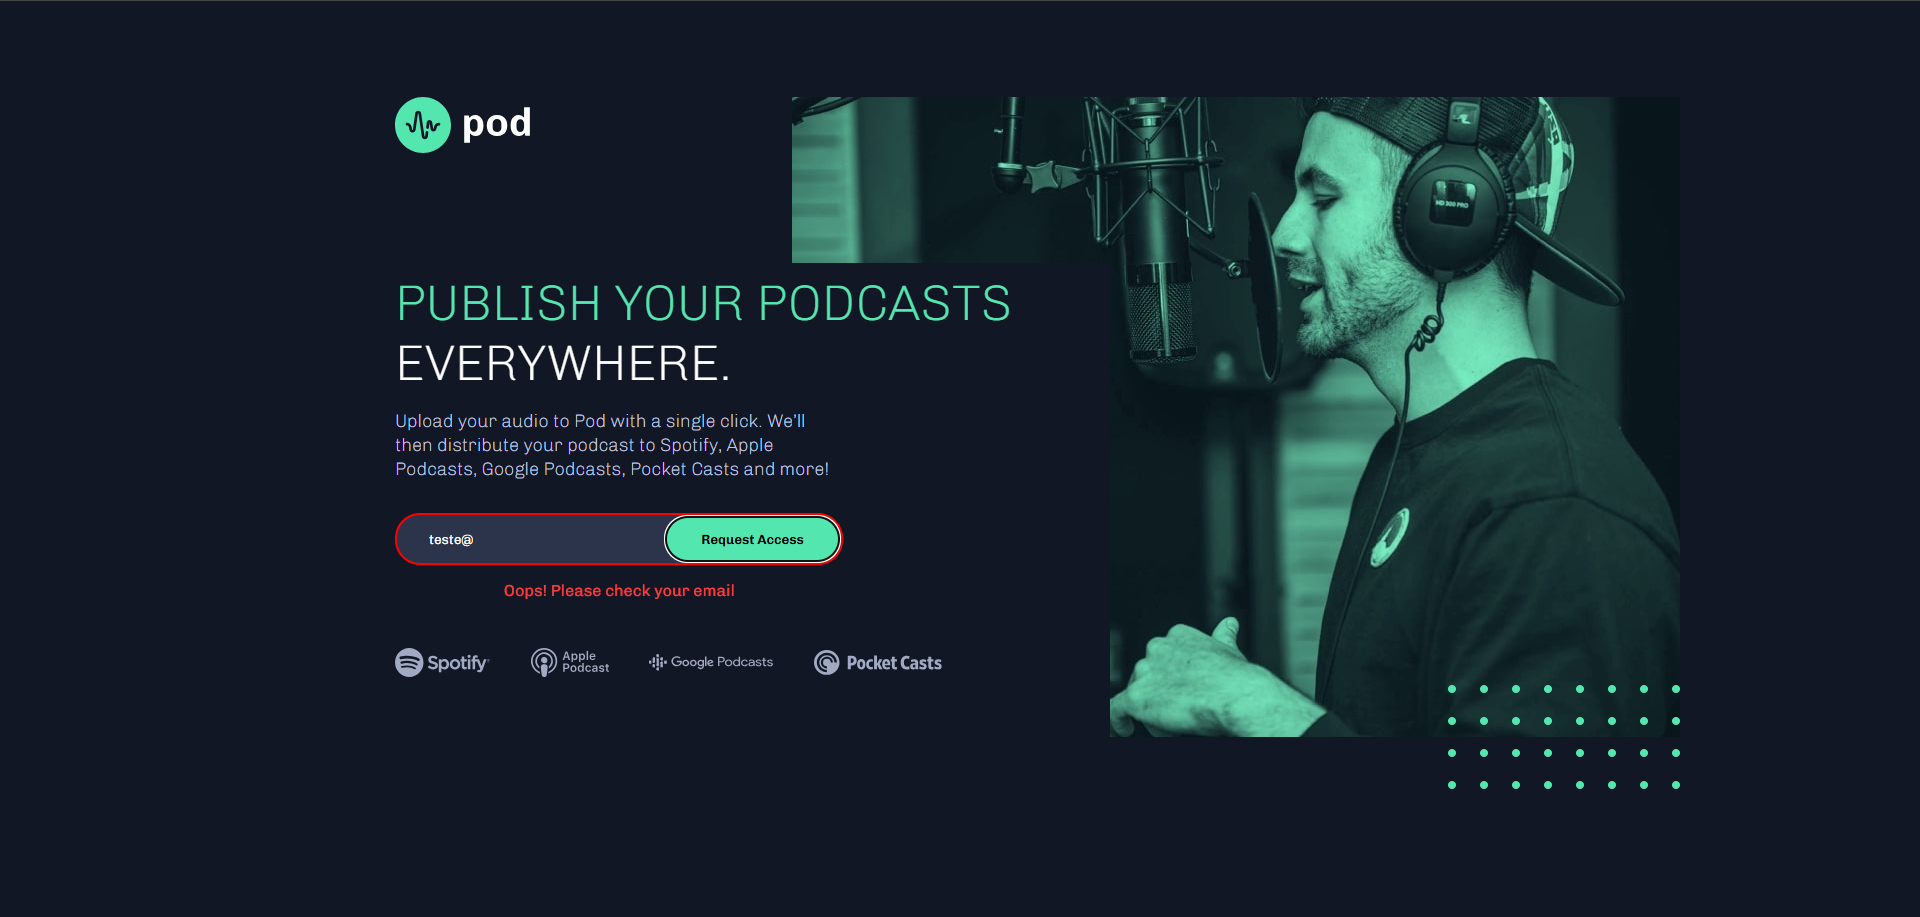
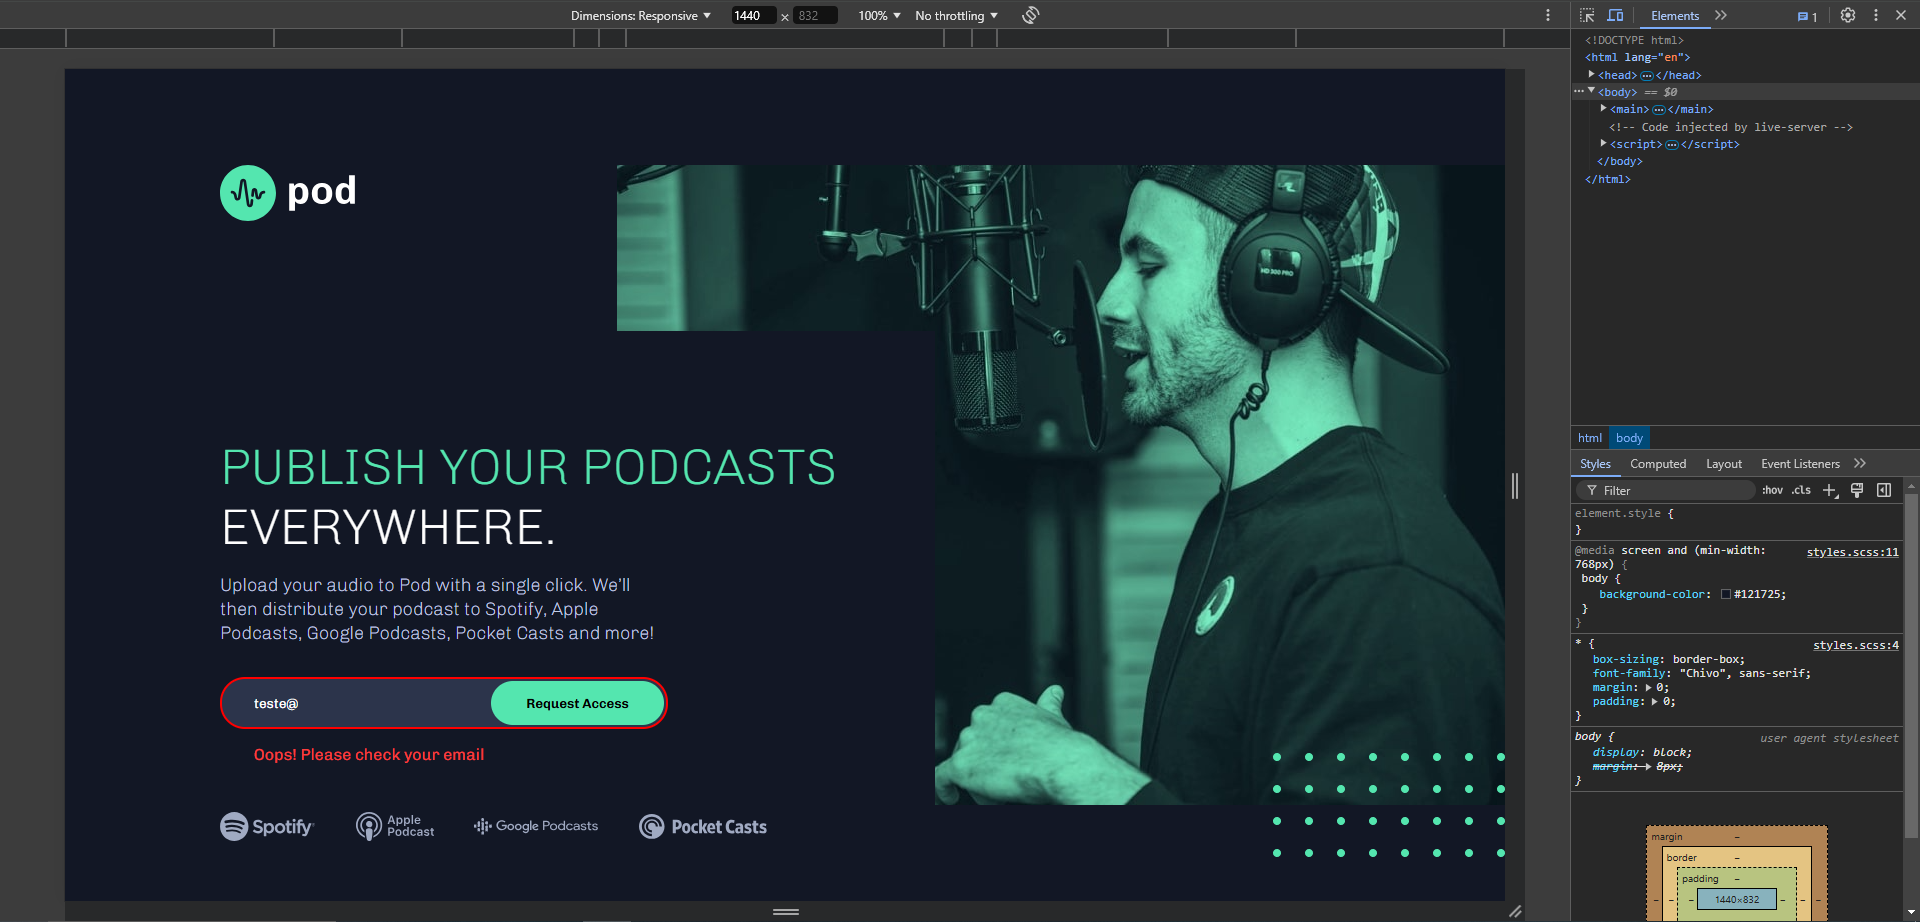
Refactoring NB5

diff --git a/1- Newbie/5_pod-request-access-landing-page/src/styles/components/_main.scss b/1- Newbie/5_pod-request-access-landing-page/src/styles/components/_main.scss
@@ -83,7 +83,7 @@ main {
             }
 
             @media screen and (min-width: 1440px) {
-                margin-top: 6rem;
+                margin: 6rem auto 12.5rem 0;
             }
         }
 
@@ -211,6 +211,13 @@ main {
                     top: 4px;
                     right: 4px;
                     width: 173px;
+                }
+
+                @media screen and (min-width: 1440px) {
+                    
+                    &:hover {
+                        cursor: pointer;
+                    }
                 }
             }
 

diff --git a/1- Newbie/5_pod-request-access-landing-page/src/styles/styles.css b/1- Newbie/5_pod-request-access-landing-page/src/styles/styles.css
@@ -90,7 +90,7 @@ main .container .main-logo {
 }
 @media screen and (min-width: 1440px) {
   main .container .main-logo {
-    margin-top: 6rem;
+    margin: 6rem auto 12.5rem 0;
   }
 }
 main .container h1 {
@@ -221,6 +221,11 @@ main .container .main-inputs #main-submit {
     top: 4px;
     right: 4px;
     width: 173px;
+  }
+}
+@media screen and (min-width: 1440px) {
+  main .container .main-inputs #main-submit:hover {
+    cursor: pointer;
   }
 }
 main .container .main-inputs .spanAlert {

diff --git a/1- Newbie/5_pod-request-access-landing-page/README-template.md b/1- Newbie/5_pod-request-access-landing-page/README-template.md
@@ -36,7 +36,7 @@ Users should be able to:
 ### Links
 
 - Solution URL: (https://github.com/Marcoswodbarros/Front-end-mentor/tree/main/1-%20Newbie/5_pod-request-access-landing-page)
-- Live Site URL: (https://meet-pi.vercel.app/)
+- Live Site URL: (https://frontend-mentor-pod-request-acces-landing-page.vercel.app/)
 
 
 ## My process
